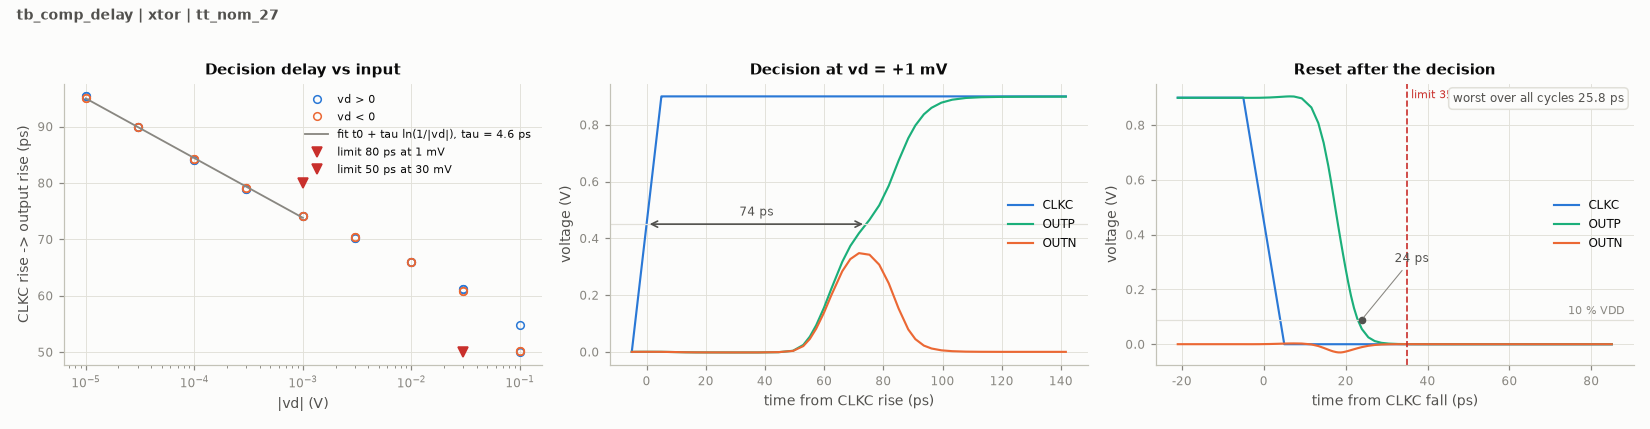
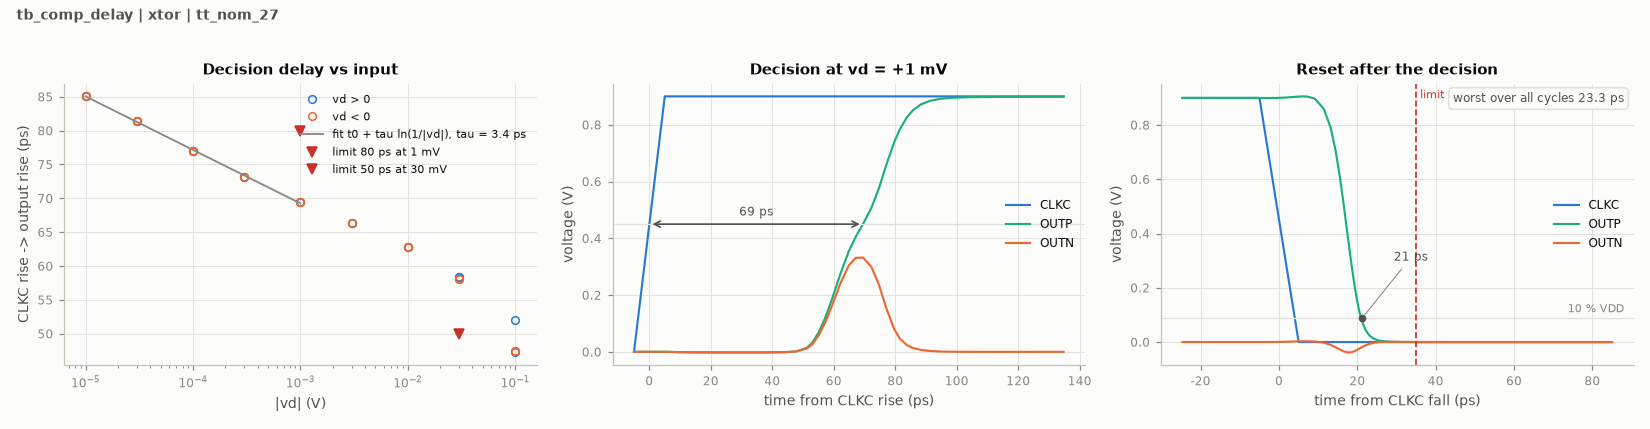
feat(adc_comp): retain low-noise high-load frontier point

diff --git a/design/xtor/adc_comp/README.md b/design/xtor/adc_comp/README.md
@@ -7,7 +7,7 @@ return-to-zero output inverters. The embedded RNL records show every device,
 wire and body connection and identify the differential pair, matched devices,
 regenerative group and reset group.
 
-Current checkpoint `mc14` implements the self-timed core (M1-M15) of
+Current checkpoint `mc15` implements the self-timed core (M1-M15) of
 Miyahara et al., "A Low-Noise Self-Calibrating Dynamic Comparator for
 High-Speed ADCs," A-SSCC 2008, Fig. 2(b), DOI 10.1109/ASSCC.2008.4708780.
 The paper's offset-compensation devices and charge pump are omitted. P/N
@@ -126,8 +126,15 @@ system-level budget decision; none satisfies the current 80 uV noise limit.
 | Experiment | TT noise | Delay at 1 / 30 mV | Reset | Energy | Cin | Kickback |
 |---|---|---|---|---|---|---|
 | mc14 | 143.0 uV | 74.18 / 60.98 ps | 25.83 ps | 208.34 fJ | 28.56 fF | 0.108 uV |
+| mc15 | 104.0 uV | 69.45 / 58.27 ps | 23.26 ps | 403.57 fJ | 57.12 fF | 0.088 uV |
 
 mc14 doubles the input-pair total width to 80 um per side, with a 3 um tail
 and 6 um precharge devices. Its lower noise requires more input capacitance
 and energy and still misses the 30 mV delay limit. All other measurements
 above are TT only for this checkpoint. It is a measured tradeoff, not signoff.
+
+mc15 scales the mc14 input and regeneration/loading structure by approximately
+a further factor of two. The measured 104 uV noise still exceeds 80 uV, while
+57.12 fF input capacitance and 403.57 fJ energy substantially exceed their
+current allocations. This point is retained for the top-level allocation
+discussion rather than as a compliant candidate.
